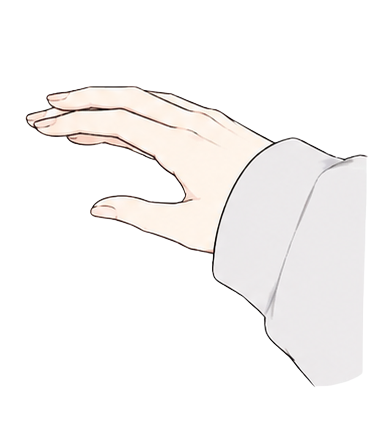
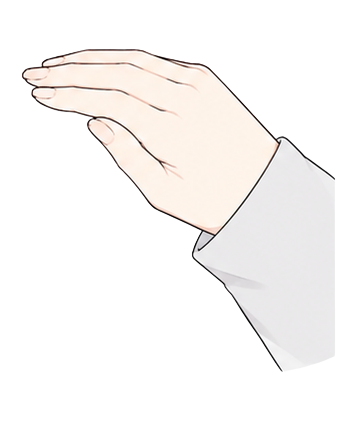
Replace head pat sticker image

diff --git a/src/data/stickers.js b/src/data/stickers.js
@@ -7,7 +7,7 @@ const stickerModules = import.meta.glob('../assets/stickers/*.png', {
 export const stickerDefinitions = [
   { id: 'cheek-pinch', label: '볼 꼬집기', fileName: 'cheek-pinch.png', sourceName: '꼬집기.png', width: 301, height: 435, emoji: '🤏' },
   { id: 'v-sign', label: '브이', fileName: 'v-sign.png', sourceName: '브이.png', width: 239, height: 470, emoji: '✌' },
-  { id: 'head-pat', label: '머리 쓰담', fileName: 'head-pat.png', sourceName: '쓰담.png', width: 382, height: 428, emoji: '🫳' },
+  { id: 'head-pat', label: '머리 쓰담', fileName: 'head-pat.png', sourceName: '쓰담2.png', width: 364, height: 436, emoji: '🫳' },
   { id: 'hand-heart', label: '손하트', fileName: 'hand-heart.png', sourceName: '볼하트.png', width: 319, height: 448, emoji: '♡' },
   { id: 'waving-hand', label: '손 흔들기', fileName: 'waving-hand.png', sourceName: '하이.png', width: 281, height: 456, emoji: '👋' },
   { id: 'cheek-poke', label: '볼 찌르기', fileName: 'cheek-poke.png', sourceName: '볼콕.png', width: 367, height: 389, emoji: '☝' },

diff --git a/README.md b/README.md
@@ -42,7 +42,7 @@ src/assets/stickers/
 ```text
 꼬집기.png -> cheek-pinch.png
 브이.png -> v-sign.png
-쓰담.png -> head-pat.png
+쓰담2.png -> head-pat.png
 볼하트.png -> hand-heart.png
 하이.png -> waving-hand.png
 볼콕.png -> cheek-poke.png
